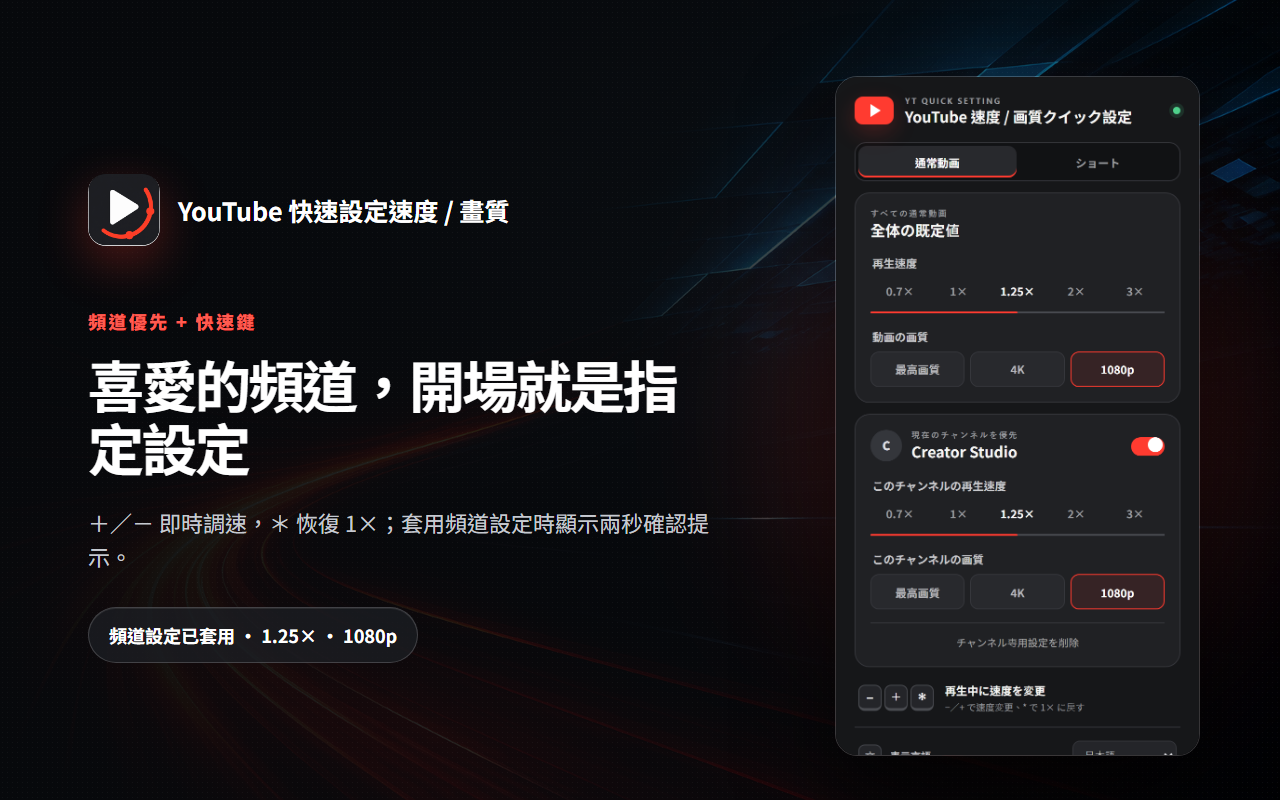
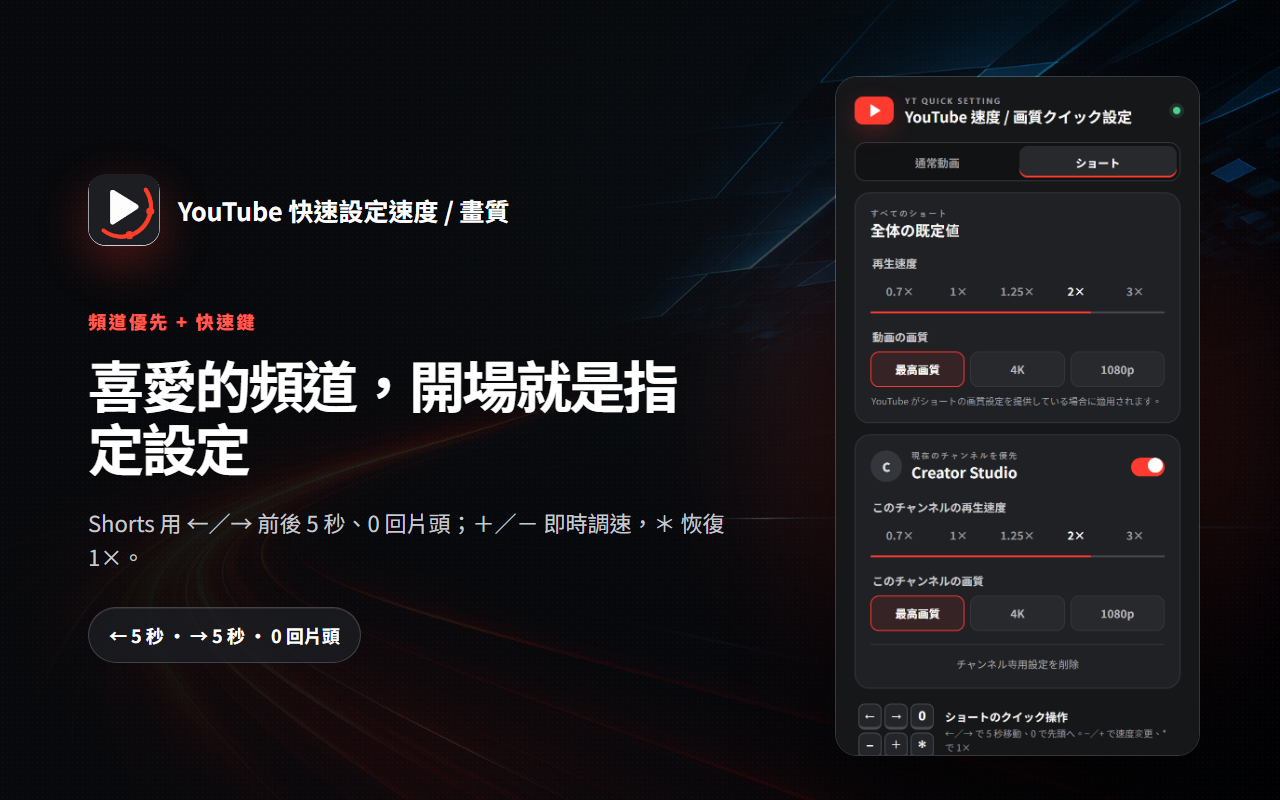
Add Shorts seek and restart shortcuts

diff --git a/content.js b/content.js
@@ -18,9 +18,9 @@ const YTQS_QUALITY_LABELS = {
 };
 
 const YTQS_MESSAGES = {
-  "zh-Hant": { channelSettings: "頻道指定設定", speed: "速度", quality: "解析度", playbackSpeed: "播放速度" },
-  en: { channelSettings: "Channel settings", speed: "Speed", quality: "Quality", playbackSpeed: "Playback speed" },
-  ja: { channelSettings: "チャンネル設定", speed: "速度", quality: "画質", playbackSpeed: "再生速度" }
+  "zh-Hant": { channelSettings: "頻道指定設定", speed: "速度", quality: "解析度", playbackSpeed: "播放速度", seconds: "秒", backToStart: "回到片頭" },
+  en: { channelSettings: "Channel settings", speed: "Speed", quality: "Quality", playbackSpeed: "Playback speed", seconds: "sec", backToStart: "Back to start" },
+  ja: { channelSettings: "チャンネル設定", speed: "速度", quality: "画質", playbackSpeed: "再生速度", seconds: "秒", backToStart: "先頭に戻る" }
 };
 
 function ytqsNormalizeProfile(value, fallback = YTQS_DEFAULTS.global) {
@@ -256,6 +256,7 @@ function showSpeedOverlay(speed) {
     `;
     document.documentElement.append(style, overlay);
   }
+  overlay.querySelector(".ytqs-speed-icon").textContent = "▶▶";
   overlay.querySelector(".ytqs-speed-value").textContent = `${speed}×`;
   overlay.querySelector(".ytqs-speed-label").textContent = ytqsText("playbackSpeed");
   overlay.classList.remove("ytqs-show");
@@ -263,6 +264,51 @@ function showSpeedOverlay(speed) {
   overlay.classList.add("ytqs-show");
   clearTimeout(showSpeedOverlay.timer);
   showSpeedOverlay.timer = setTimeout(() => overlay.classList.remove("ytqs-show"), 1050);
+}
+
+function formatPlaybackTime(value) {
+  const totalSeconds = Math.max(0, Math.floor(Number(value) || 0));
+  const hours = Math.floor(totalSeconds / 3600);
+  const minutes = Math.floor((totalSeconds % 3600) / 60);
+  const seconds = totalSeconds % 60;
+  return hours > 0
+    ? `${hours}:${String(minutes).padStart(2, "0")}:${String(seconds).padStart(2, "0")}`
+    : `${minutes}:${String(seconds).padStart(2, "0")}`;
+}
+
+function showSeekOverlay(deltaSeconds, currentTime, duration) {
+  let overlay = document.querySelector("#ytqs-speed-overlay");
+  if (!overlay) {
+    showSpeedOverlay(1);
+    overlay = document.querySelector("#ytqs-speed-overlay");
+  }
+  if (!overlay) return;
+  const isReset = deltaSeconds === 0;
+  overlay.querySelector(".ytqs-speed-icon").textContent = isReset ? "↶" : deltaSeconds > 0 ? "▶▶" : "◀◀";
+  overlay.querySelector(".ytqs-speed-value").textContent = isReset
+    ? formatPlaybackTime(currentTime)
+    : `${deltaSeconds > 0 ? "+" : "−"}${Math.abs(deltaSeconds)} ${ytqsText("seconds")}`;
+  overlay.querySelector(".ytqs-speed-label").textContent = isReset
+    ? ytqsText("backToStart")
+    : `${formatPlaybackTime(currentTime)} / ${formatPlaybackTime(duration)}`;
+  overlay.classList.remove("ytqs-show");
+  void overlay.offsetWidth;
+  overlay.classList.add("ytqs-show");
+  clearTimeout(showSpeedOverlay.timer);
+  showSpeedOverlay.timer = setTimeout(() => overlay.classList.remove("ytqs-show"), 1050);
+}
+
+function seekShorts(deltaSeconds) {
+  if (contentType() !== "shorts") return false;
+  const video = currentVideo();
+  const duration = Number(video?.duration);
+  const player = currentPlayer();
+  if (!video || !Number.isFinite(duration) || duration <= 0 || player?.classList?.contains("ad-showing")) return false;
+  const current = Number(video.currentTime) || 0;
+  const next = deltaSeconds === 0 ? 0 : Math.min(duration, Math.max(0, current + deltaSeconds));
+  video.currentTime = next;
+  showSeekOverlay(deltaSeconds, next, duration);
+  return true;
 }
 
 function adjustSpeed(direction) {
@@ -314,17 +360,40 @@ function restoreNormalSpeed() {
   return true;
 }
 
-document.addEventListener("keydown", (event) => {
-  if (!isVideoPage() || event.defaultPrevented || event.repeat || event.ctrlKey || event.altKey || event.metaKey || isTypingTarget(event.target)) return;
+function isSeekBlockedTarget(target) {
+  return target instanceof HTMLElement && Boolean(target.closest("button, a, [role='button'], [role='menu'], [role='menuitem'], [role='slider']"));
+}
+
+function handleKeyboardShortcut(event) {
+  if (!isVideoPage() || event.defaultPrevented || event.ctrlKey || event.altKey || event.metaKey || isTypingTarget(event.target)) return false;
+  const isShorts = contentType() === "shorts";
+  const isSeekBackward = isShorts && event.key === "ArrowLeft";
+  const isSeekForward = isShorts && event.key === "ArrowRight";
+  const isSeekStart = isShorts && (event.key === "0" || event.code === "Numpad0");
   const isPlus = event.key === "+" || event.code === "NumpadAdd";
   const isMinus = event.key === "-" || event.key === "−" || event.code === "NumpadSubtract";
   const isReset = event.key === "*" || event.code === "NumpadMultiply";
-  if (!isPlus && !isMinus && !isReset) return;
-  const handled = isReset ? restoreNormalSpeed() : adjustSpeed(isPlus ? 1 : -1);
+  if (!isSeekBackward && !isSeekForward && !isSeekStart && !isPlus && !isMinus && !isReset) return false;
+  if (event.repeat && !isSeekBackward && !isSeekForward) return false;
+  if ((isSeekBackward || isSeekForward || isSeekStart) && isSeekBlockedTarget(event.target)) return false;
+  const handled = isSeekStart
+    ? seekShorts(0)
+    : isSeekBackward
+      ? seekShorts(-5)
+      : isSeekForward
+        ? seekShorts(5)
+        : isReset
+          ? restoreNormalSpeed()
+          : adjustSpeed(isPlus ? 1 : -1);
   if (handled) {
     event.preventDefault();
     event.stopImmediatePropagation();
   }
+  return handled;
+}
+
+document.addEventListener("keydown", (event) => {
+  handleKeyboardShortcut(event);
 }, true);
 
 chrome.runtime.onMessage.addListener((message, _sender, sendResponse) => {

diff --git a/tests/content-behavior.test.js b/tests/content-behavior.test.js
@@ -5,18 +5,31 @@ const vm = require("node:vm");
 let source = fs.readFileSync("content.js", "utf8");
 assert.match(source, /event\.key === "\*"/);
 assert.match(source, /event\.code === "NumpadMultiply"/);
-source = source.replaceAll("  showSpeedOverlay(speed);\n  return true;", "  return true;");
-source = source.replace(/\ndocument\.addEventListener\("keydown"[\s\S]*$/, "\nthis.__contentTest = { contentType, isVideoPage, effectiveSettings, restoreNormalSpeed, ytqsNormalizeSettings };" );
+assert.match(source, /event\.key === "ArrowLeft"/);
+assert.match(source, /event\.key === "ArrowRight"/);
+assert.match(source, /event\.key === "0"/);
+assert.match(source, /event\.code === "Numpad0"/);
+source = source.replace(/^\s*show(?:Speed|Seek)Overlay\([^;]+;\r?$/gm, "");
+source = source.replace(/\ndocument\.addEventListener\("keydown"[\s\S]*$/, "\nthis.__contentTest = { contentType, isVideoPage, effectiveSettings, restoreNormalSpeed, seekShorts, handleKeyboardShortcut, ytqsNormalizeSettings };" );
 
 const messages = [];
 const video = {
   playbackRate: 2,
   defaultPlaybackRate: 2,
+  currentTime: 12,
+  duration: 30,
   paused: false,
   getBoundingClientRect: () => ({ width: 400, height: 700 }),
   closest: () => ({ querySelector: () => player })
 };
-const player = { querySelector: () => video };
+const player = { querySelector: () => video, classList: { contains: () => false } };
+class MockHTMLElement {
+  constructor(tagName = "BODY") {
+    this.tagName = tagName;
+    this.isContentEditable = false;
+  }
+  closest() { return null; }
+}
 const sandbox = {
   location: { pathname: "/shorts/abc123", search: "", origin: "https://www.youtube.com" },
   navigator: { language: "en" },
@@ -32,8 +45,10 @@ const sandbox = {
   window: { postMessage: (message) => messages.push(message) },
   setTimeout: (callback) => callback(),
   clearTimeout() {},
+  HTMLElement: MockHTMLElement,
   Object,
-  Number
+  Number,
+  URLSearchParams
 };
 vm.createContext(sandbox);
 vm.runInContext(source, sandbox, { filename: "content.js" });
@@ -45,5 +60,56 @@ assert.equal(api.restoreNormalSpeed(), true);
 assert.equal(messages.at(-1).type, "SET_SESSION_SPEED");
 assert.equal(messages.at(-1).speed, 1);
 assert.equal(video.playbackRate, 1);
+
+assert.equal(api.seekShorts(5), true);
+assert.equal(video.currentTime, 17);
+assert.equal(api.seekShorts(-5), true);
+assert.equal(video.currentTime, 12);
+assert.equal(api.seekShorts(0), true);
+assert.equal(video.currentTime, 0);
+
+function keyboardEvent(key, code = "") {
+  return {
+    key,
+    code,
+    target: new MockHTMLElement(),
+    defaultPrevented: false,
+    repeat: false,
+    ctrlKey: false,
+    altKey: false,
+    metaKey: false,
+    preventDefaultCalled: false,
+    stopImmediatePropagationCalled: false,
+    preventDefault() { this.preventDefaultCalled = true; },
+    stopImmediatePropagation() { this.stopImmediatePropagationCalled = true; }
+  };
+}
+
+video.currentTime = 10;
+const forward = keyboardEvent("ArrowRight");
+assert.equal(api.handleKeyboardShortcut(forward), true);
+assert.equal(video.currentTime, 15);
+assert.equal(forward.preventDefaultCalled, true);
+assert.equal(forward.stopImmediatePropagationCalled, true);
+
+const restart = keyboardEvent("0", "Digit0");
+assert.equal(api.handleKeyboardShortcut(restart), true);
+assert.equal(video.currentTime, 0);
+
+const repeatedForward = keyboardEvent("ArrowRight");
+repeatedForward.repeat = true;
+assert.equal(api.handleKeyboardShortcut(repeatedForward), true);
+assert.equal(video.currentTime, 5);
+
+const typingTarget = keyboardEvent("ArrowRight");
+typingTarget.target = new MockHTMLElement("INPUT");
+assert.equal(api.handleKeyboardShortcut(typingTarget), false);
+assert.equal(video.currentTime, 5);
+
+sandbox.location.pathname = "/watch";
+sandbox.location.search = "?v=abc123";
+const regularArrow = keyboardEvent("ArrowRight");
+assert.equal(api.handleKeyboardShortcut(regularArrow), false);
+assert.equal(video.currentTime, 5);
 
 console.log("CONTENT_BEHAVIOR_TESTS_OK");

diff --git a/popup.js b/popup.js
@@ -17,6 +17,7 @@ const MESSAGES = {
     enableChannel: "啟用目前頻道專屬設定", removeChannel: "移除頻道專屬設定",
     channelEmpty: "請在 YouTube 影片或 Shorts 頁面開啟此面板，即可加入頻道專屬設定。",
     shortcutTitle: "播放時直接調速", shortcutDescription: "按 −／+ 切換速度，按 * 恢復 1×",
+    shortsShortcutTitle: "Shorts 快速操作", shortsShortcutDescription: "←／→ 前後 5 秒，0 回片頭；−／+ 調速，* 回復 1×",
     connected: "已連線到目前影片", disconnected: "請開啟 YouTube 影片或 Shorts", languageLabel: "介面語言",
     qualityHighest: "自動最高", quality4k: "4K", quality1080: "1080p", qualityPremiumHint: "可用時優先使用 1080p Premium",
     shortsQualityNote: "YouTube Shorts 提供畫質控制時才會套用此偏好。"
@@ -30,6 +31,7 @@ const MESSAGES = {
     enableChannel: "Enable settings for the current channel", removeChannel: "Remove channel settings",
     channelEmpty: "Open this panel on a YouTube video or Short to add channel-specific settings.",
     shortcutTitle: "Adjust speed while playing", shortcutDescription: "Press −/+ to change speed, or * to restore 1×",
+    shortsShortcutTitle: "Shorts quick controls", shortsShortcutDescription: "←/→ seek 5 sec, 0 restarts; −/+ changes speed, * restores 1×",
     connected: "Connected to the current video", disconnected: "Open a YouTube video or Short", languageLabel: "Interface language",
     qualityHighest: "Highest", quality4k: "4K", quality1080: "1080p", qualityPremiumHint: "Prefer 1080p Premium when available",
     shortsQualityNote: "This preference applies when YouTube provides quality controls for Shorts."
@@ -43,6 +45,7 @@ const MESSAGES = {
     enableChannel: "現在のチャンネル専用設定を有効にする", removeChannel: "チャンネル専用設定を削除",
     channelEmpty: "YouTube 動画またはショートのページでこのパネルを開くと、チャンネル専用設定を追加できます。",
     shortcutTitle: "再生中に速度を変更", shortcutDescription: "−／+ で速度変更、* で 1× に戻す",
+    shortsShortcutTitle: "ショートのクイック操作", shortsShortcutDescription: "←／→ で 5 秒移動、0 で先頭へ。−／+ で速度変更、* で 1×",
     connected: "現在の動画に接続しました", disconnected: "YouTube 動画またはショートを開いてください", languageLabel: "表示言語",
     qualityHighest: "最高画質", quality4k: "4K", quality1080: "1080p", qualityPremiumHint: "利用可能なら 1080p Premium を優先",
     shortsQualityNote: "YouTube がショートの画質設定を提供している場合に適用されます。"
@@ -136,8 +139,16 @@ function applyTranslations() {
   $("#channelQualityLegend").textContent = t("channelQuality");
   $("#removeChannel").textContent = t("removeChannel");
   $("#channelEmpty").textContent = t("channelEmpty");
-  $("#shortcutTitle").textContent = t("shortcutTitle");
-  $("#shortcutDescription").textContent = t("shortcutDescription");
+  const isShorts = activeContentType === "shorts";
+  $("#shortcutTitle").textContent = t(isShorts ? "shortsShortcutTitle" : "shortcutTitle");
+  $("#shortcutDescription").textContent = t(isShorts ? "shortsShortcutDescription" : "shortcutDescription");
+  const shortcutKeys = $("#shortcutKeys");
+  shortcutKeys.classList.toggle("shorts", isShorts);
+  shortcutKeys.replaceChildren(...(isShorts ? ["←", "→", "0", "−", "＋", "＊"] : ["−", "＋", "＊"]).map((key) => {
+    const element = document.createElement("kbd");
+    element.textContent = key;
+    return element;
+  }));
   $("#globalKicker").textContent = t(activeContentType === "shorts" ? "allShorts" : "allRegular");
   $("#shortsQualityNote").textContent = t("shortsQualityNote");
   $("#shortsQualityNote").hidden = activeContentType !== "shorts";

diff --git a/scripts/render-marketing-assets.js b/scripts/render-marketing-assets.js
@@ -30,7 +30,7 @@ const locales = {
   ja: {
     language: "ja",
     systemLanguage: "ja-JP",
-    contentType: "regular",
+    contentType: "shorts",
     title: "いつもの速度と画質を、すべての動画に",
     subtitle: "通常動画・ショート・チャンネル別設定を自動適用",
     chips: ["チャンネル優先", "ショート個別設定", "1080p Premium", "＋／－ で速度変更", "＊ で 1×"],
@@ -106,7 +106,7 @@ async function renderHero(browser, localeKey, locale, popupPath) {
       .shot{position:relative;justify-self:end;transform:rotate(2deg)}.shot:before{content:"";position:absolute;inset:10% -13%;border-radius:50%;background:#ff3b30;filter:blur(150px);opacity:.27}
       .shot img{position:relative;width:800px;border:2px solid rgba(255,255,255,.18);border-radius:34px;box-shadow:0 90px 180px rgba(0,0,0,.66),0 0 0 18px rgba(255,255,255,.025)}
       footer{position:absolute;z-index:3;left:282px;right:260px;bottom:86px;display:flex;justify-content:space-between;color:#8d9097;font-size:24px;letter-spacing:.06em}
-    </style></head><body><div class="noise"></div><main><section><div class="brand"><img src="${icon}"><strong>${locale.brandName}</strong></div><p class="eyebrow">${locale.eyebrow}</p><h1>${locale.title}</h1><p class="subtitle">${locale.subtitle}</p><div class="chips">${chips}</div></section><div class="shot"><img src="${popup}"></div></main><footer><span>CHROME EXTENSION · v1.1.2</span><span>繁體中文 · ENGLISH · 日本語</span></footer></body></html>`);
+    </style></head><body><div class="noise"></div><main><section><div class="brand"><img src="${icon}"><strong>${locale.brandName}</strong></div><p class="eyebrow">${locale.eyebrow}</p><h1>${locale.title}</h1><p class="subtitle">${locale.subtitle}</p><div class="chips">${chips}</div></section><div class="shot"><img src="${popup}"></div></main><footer><span>CHROME EXTENSION · v1.2.0</span><span>繁體中文 · ENGLISH · 日本語</span></footer></body></html>`);
   await page.screenshot({ path: path.join(outputDir, `promo-${localeKey}-4k.png`), animations: "disabled" });
   await page.close();
 }

diff --git a/tests/popup-ui.test.js b/tests/popup-ui.test.js
@@ -37,7 +37,9 @@ const { chromium } = require("playwright");
 
   await page.locator("#languageSelect").selectOption("en");
   assert.equal(await page.locator("#appTitle").innerText(), "YouTube Quick Speed / Quality Settings");
-  assert.match(await page.locator("#shortcutDescription").innerText(), /restore 1×/);
+  assert.match(await page.locator("#shortcutDescription").innerText(), /0 restarts/);
+  assert.equal(await page.locator("#shortcutKeys kbd").count(), 6);
+  assert.deepEqual(await page.locator("#shortcutKeys kbd").allTextContents(), ["←", "→", "0", "−", "＋", "＊"]);
 
   const masthead = await page.locator(".masthead").boundingBox();
   const title = await page.locator("#appTitle").boundingBox();

diff --git a/scripts/render-store-assets.js b/scripts/render-store-assets.js
@@ -33,9 +33,9 @@ const scenes = [
     file: "screenshot-03-channel-shortcuts.png",
     kicker: "頻道優先 + 快速鍵",
     title: "喜愛的頻道，開場就是指定設定",
-    subtitle: "＋／－ 即時調速，＊ 恢復 1×；套用頻道設定時顯示兩秒確認提示。",
+    subtitle: "Shorts 用 ←／→ 前後 5 秒、0 回片頭；＋／－ 即時調速，＊ 恢復 1×。",
     popup: "popup-ja.png",
-    badge: "頻道設定已套用 · 1.25× · 1080p"
+    badge: "← 5 秒 · → 5 秒 · 0 回片頭"
   }
 ];
 

diff --git a/popup.html b/popup.html
@@ -76,7 +76,7 @@
       </section>
 
       <footer class="shortcut-hint">
-        <div class="key-pair" aria-hidden="true"><kbd>−</kbd><kbd>＋</kbd><kbd>＊</kbd></div>
+        <div class="key-pair" id="shortcutKeys" aria-hidden="true"><kbd>−</kbd><kbd>＋</kbd><kbd>＊</kbd></div>
         <p><strong id="shortcutTitle">播放時直接調速</strong><span id="shortcutDescription">按 −／+ 切換速度，按 * 恢復 1×</span></p>
       </footer>
 

diff --git a/popup.css b/popup.css
@@ -298,6 +298,7 @@ legend {
 }
 
 .key-pair { display: flex; gap: 3px; }
+.key-pair.shorts { display: grid; grid-template-columns: repeat(3, 25px); gap: 3px; }
 kbd {
   display: grid;
   place-items: center;

diff --git a/docs/releases/v1.2.0.md b/docs/releases/v1.2.0.md
@@ -1,0 +1,15 @@
+# YouTube 快速設定速度 / 畫質 v1.2.0
+
+## 新功能
+
+- YouTube Shorts 按 `←` 倒退 5 秒、按 `→` 快進 5 秒。
+- Shorts 按 `0` 或數字鍵盤 `0` 回到片頭。
+- 快進、倒退與回到片頭時顯示時間提示。
+- 長按左右方向鍵可連續跳轉。
+- 在搜尋、留言、表單與播放器選單操作時不攔截方向鍵。
+- 一般影片維持 YouTube 原生左右方向鍵與數字鍵行為。
+
+## 介面
+
+- Shorts 設定頁顯示完整快捷鍵提示。
+- 繁體中文、英文與日文提示同步更新。

diff --git a/docs/chrome-web-store/listing-ja.md b/docs/chrome-web-store/listing-ja.md
@@ -22,6 +22,7 @@ YouTube 動画を開くだけで、いつもの再生速度と画質を自動的
 - チャンネル別設定を全体設定より優先
 - チャンネル設定の適用時、動画右下に 2 秒間の通知を表示
 - ＋／－ キーで速度変更、＊ キーですぐに 1×へ復帰
+- ショートでは ←／→ キーで 5 秒移動、0 キーで先頭へ復帰
 - 速度変更を画面表示し、YouTube の設定メニューにも反映
 - 繁體中文、English、日本語に対応。システム言語連動または手動選択
 

diff --git a/docs/chrome-web-store/listing-zh-TW.md b/docs/chrome-web-store/listing-zh-TW.md
@@ -22,6 +22,7 @@ YouTube 快速設定速度 / 畫質
 - 可為目前頻道建立專屬設定，優先於全域預設
 - 套用頻道設定時，在影片右下角顯示兩秒提示
 - ＋／－ 鍵即時調整播放速度，＊ 鍵快速恢復 1×
+- Shorts 支援 ←／→ 前後跳轉 5 秒，按 0 回到片頭
 - 調速時顯示畫面提示，YouTube 設定面板也會同步反映速度
 - 繁體中文、English、日本語介面，可跟隨系統或手動選擇
 

diff --git a/docs/chrome-web-store/listing-en.md b/docs/chrome-web-store/listing-en.md
@@ -22,6 +22,7 @@ Key features:
 - Per-channel profiles override global defaults
 - A two-second on-video notice confirms applied channel settings
 - Use + / − to change speed and * to return instantly to 1×
+- In Shorts, use ← / → to seek 5 seconds and 0 to return to the beginning
 - On-screen speed feedback and synchronized YouTube settings-menu values
 - Traditional Chinese, English, and Japanese UI; follow the system language or choose manually
 
